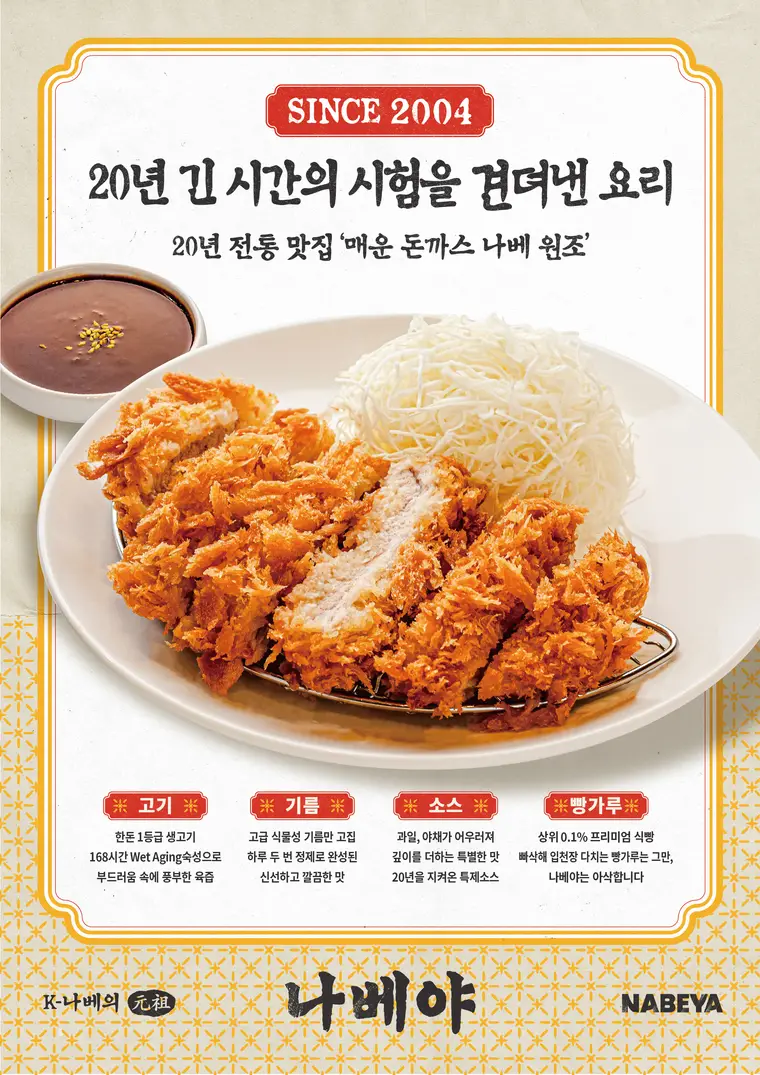
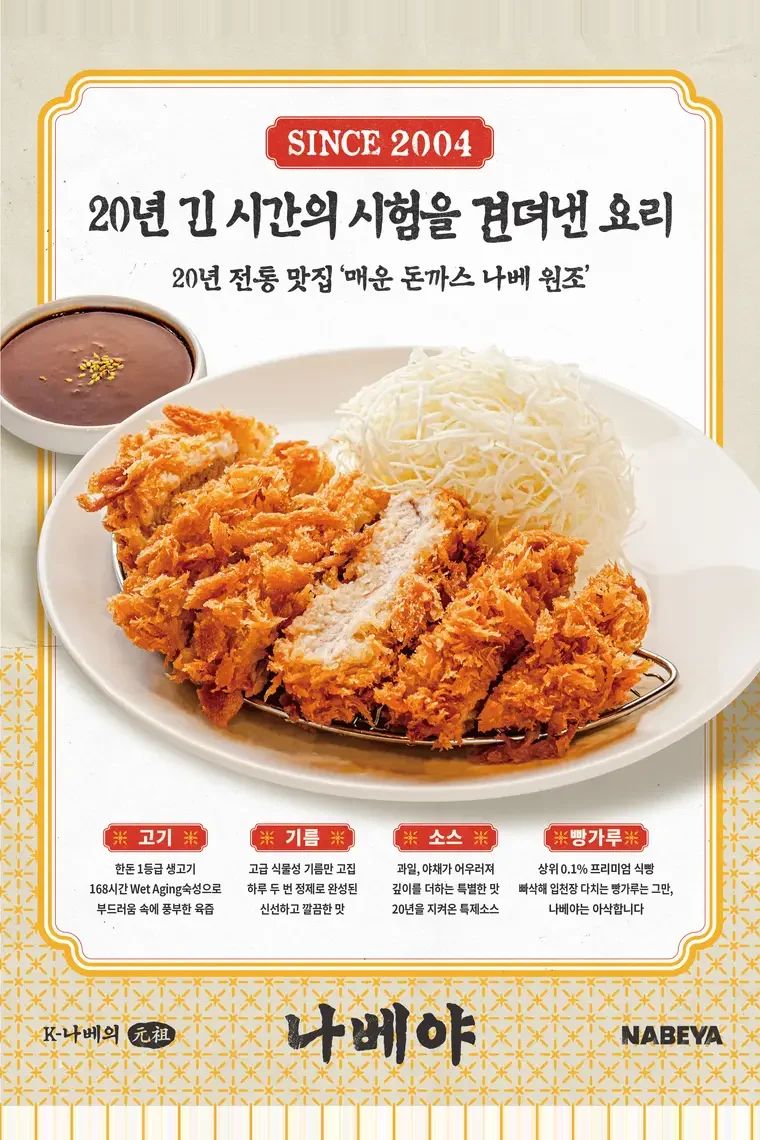
구글 서치콘솔 소유확인 메타태그 추가 · 브랜드 포스터 3장 크기 통일
포스터: 브랜드 포스터만 세로가 짧아(1075 vs 1140) 액자 크기가 어긋났습니다.
잘라내면 문구가 손상되므로 위아래 여백을 가장자리 색으로 늘려 맞췄습니다.
앞으로 다른 비율이 들어와도 어긋나지 않도록 비율을 고정했습니다.

diff --git a/index.html b/index.html
@@ -6,6 +6,7 @@
 <title>나베야 돈까스 | 평창 김치 나베 원조 · 창업비용 전체공개</title>
 <meta name="description" content="나베야 돈까스 공식 사이트. SINCE 2004, 23년 전통 평창 김치 나베 원조. 돈까스 창업·프랜차이즈 창업비용을 15평 9,550만원부터 전 항목 공개합니다. 가맹비·교육비·인테리어·로열티까지. 창업문의 1668-5236">
 <meta name="theme-color" content="#f7f1e6">
+<meta name="google-site-verification" content="QxOkLbj3A8HXBHiPAKMgIi9cDFjmBo0FOKyQe9KBVkw" />
 <meta name="naver-site-verification" content="73c83214ae0e0867cf383f699d1572aa611ec91c">
 <link rel="canonical" href="https://www.nabeya.co.kr/">
 <meta property="og:type" content="website">
@@ -347,7 +348,7 @@
       <p>포스터·입간판부터 홍보 영상까지 본사가 제작해<br>매장 첫인상과 마케팅을 통일합니다.</p>
     </div>
     <div class="poster-wall">
-      <img src="assets/brand/poster-brand.webp" alt="나베야 브랜드 포스터 - 20년 긴 시간의 시험을 견뎌낸 요리" width="760" height="1075" loading="lazy">
+      <img src="assets/brand/poster-brand.webp" alt="나베야 브랜드 포스터 - 20년 긴 시간의 시험을 견뎌낸 요리" width="760" height="1140" loading="lazy">
       <img src="assets/brand/poster-kimchi.webp" alt="평창 김치 나베 입간판" width="760" height="1140" loading="lazy">
       <img src="assets/brand/poster-cheese.webp" alt="리얼 치즈 돈까스 입간판" width="760" height="1140" loading="lazy">
     </div>

diff --git a/styles.css b/styles.css
@@ -269,10 +269,11 @@ h1,h2,h3{margin:0}
 
 /* ---------- 포스터 ---------- */
 .posters{padding:100px 5vw;background:var(--ink)}
-/* 포스터는 원본 비율 그대로 — 자르거나 늘이지 않습니다 */
+/* 세 장 모두 760x1140 로 맞춰 두었습니다. 혹시 다른 비율의 이미지가 들어와도
+   액자 크기가 어긋나지 않도록 비율을 고정합니다. */
 .poster-wall{max-width:1020px;margin:auto;display:grid;grid-template-columns:repeat(3,1fr);gap:24px;align-items:start}
 .poster-wall img{
-  width:100%;height:auto;
+  width:100%;height:auto;aspect-ratio:2/3;object-fit:cover;
   border:3px solid var(--paper);box-shadow:0 18px 36px rgba(0,0,0,.42);transition:transform .3s;
 }
 .poster-wall img:hover{transform:translateY(-8px)}
